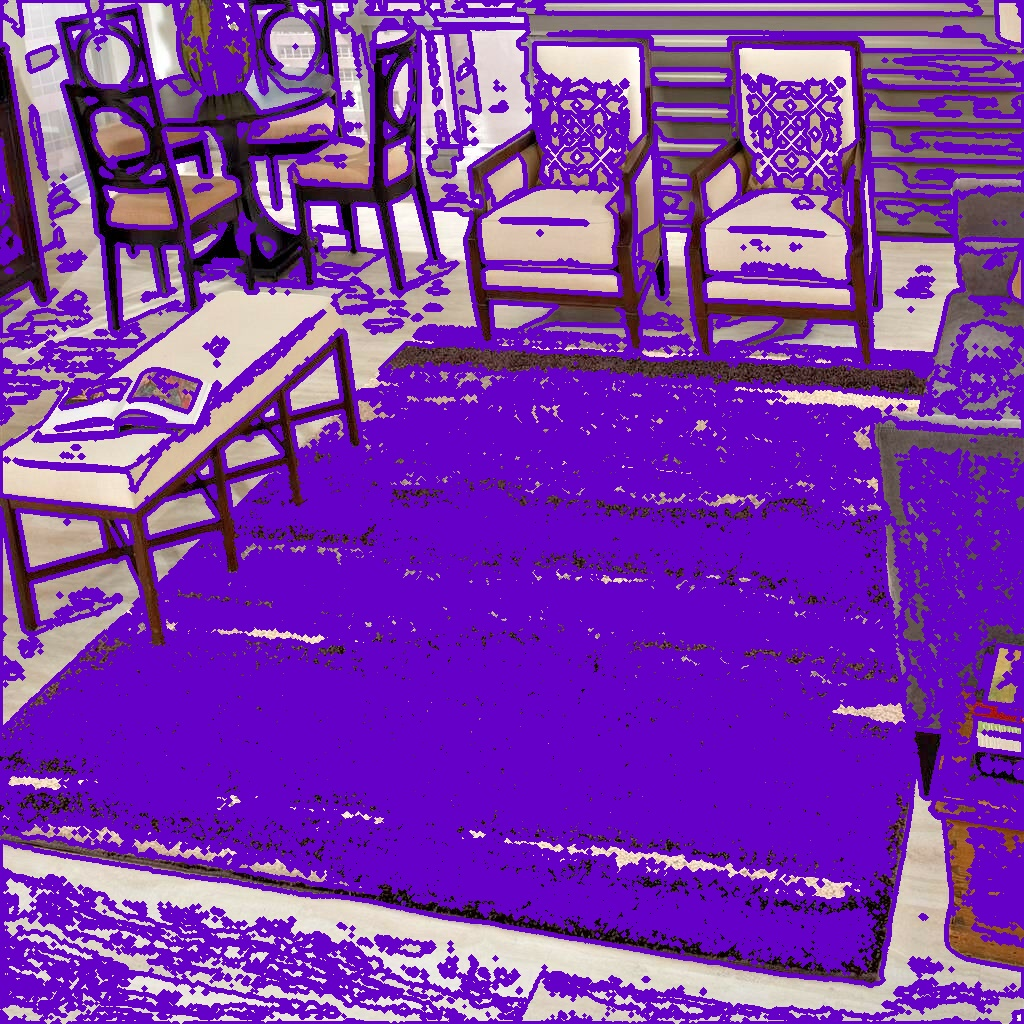
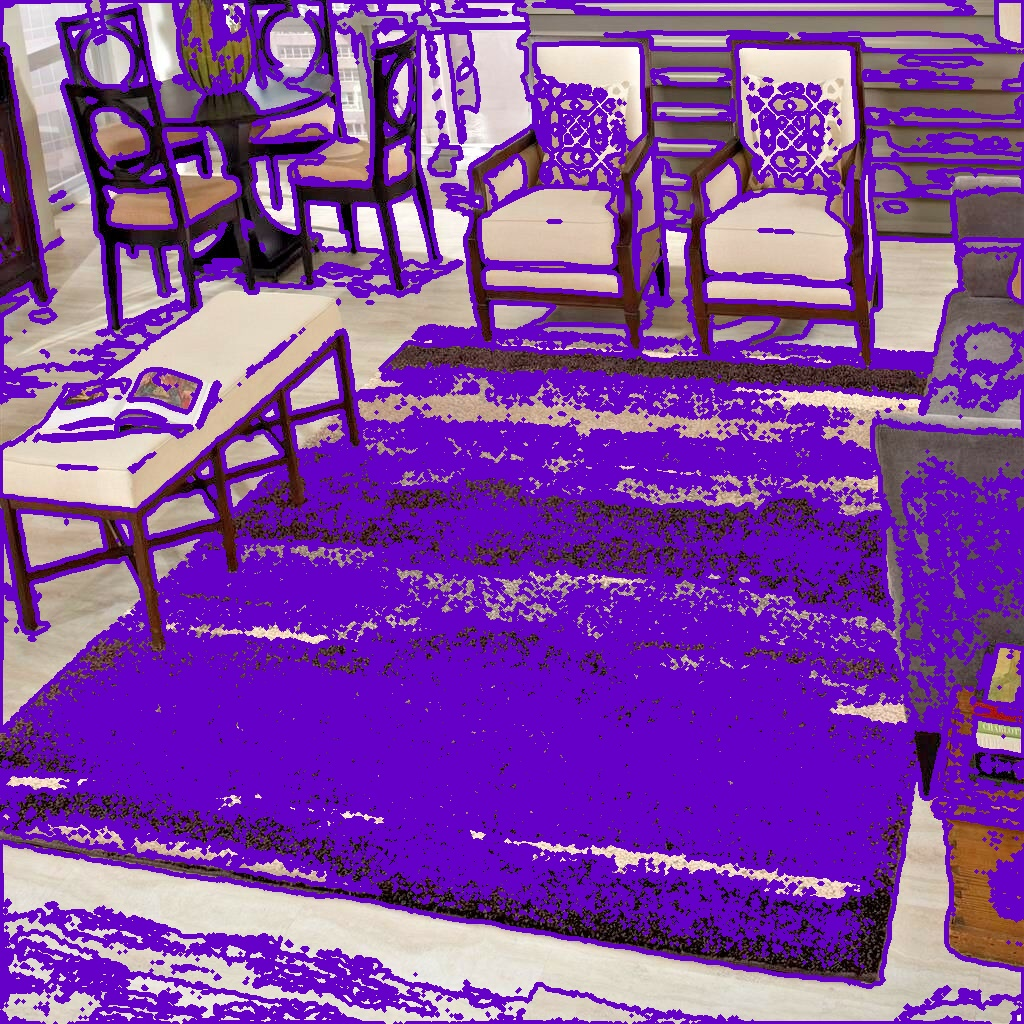
Reformant, remove .idea

diff --git a/detection.py b/detection.py
@@ -9,154 +9,154 @@ dest_path = "./dest"
 
 
 def make_dir(path):
-	if not os.path.isdir(path):
-		os.mkdir(path)
+  if not os.path.isdir(path):
+    os.mkdir(path)
 
 
 # Detect objects in images
 class ObjectDetection:
-	def __init__(self, src, dest, threshold):
-		self._src = src
-		self._dest = dest
-		self._threshold = threshold
-		make_dir(dest)
+  def __init__(self, src, dest, threshold):
+    self._src = src
+    self._dest = dest
+    self._threshold = threshold
+    make_dir(dest)
 
-	def _do_thresholding(self, file, path):
-		bw = cv.imread(file, 0)
-		ret, thresh = cv.threshold(bw, self._threshold, 255, cv.THRESH_BINARY)
-		cv.imwrite(
-			os.path.join(path, f"02-threshold-{self._threshold}.jpg"),
-			thresh
-		)
-		ret, thresh = cv.threshold(bw, self._threshold, 255, cv.THRESH_BINARY_INV)
-		cv.imwrite(
-			os.path.join(path, f"02-threshold-inverted-{self._threshold}.jpg"),
-			thresh
-		)
-		img = cv.imread(file, 1)
-		gray = cv.cvtColor(img, cv.COLOR_RGB2GRAY)
-		thresh = cv.adaptiveThreshold(gray, 255, cv.ADAPTIVE_THRESH_GAUSSIAN_C, cv.THRESH_BINARY, 115, 1)
-		cv.imwrite(
-			os.path.join(path, f"02-threshold-adaptive-{self._threshold}.jpg"),
-			thresh
-		)
+  def _do_thresholding(self, file, path):
+    bw = cv.imread(file, 0)
+    ret, thresh = cv.threshold(bw, self._threshold, 255, cv.THRESH_BINARY)
+    cv.imwrite(
+      os.path.join(path, f"02-threshold-{self._threshold}.jpg"),
+      thresh
+    )
+    ret, thresh = cv.threshold(bw, self._threshold, 255, cv.THRESH_BINARY_INV)
+    cv.imwrite(
+      os.path.join(path, f"02-threshold-inverted-{self._threshold}.jpg"),
+      thresh
+    )
+    img = cv.imread(file, 1)
+    gray = cv.cvtColor(img, cv.COLOR_RGB2GRAY)
+    thresh = cv.adaptiveThreshold(gray, 255, cv.ADAPTIVE_THRESH_GAUSSIAN_C, cv.THRESH_BINARY, 115, 1)
+    cv.imwrite(
+      os.path.join(path, f"02-threshold-adaptive-{self._threshold}.jpg"),
+      thresh
+    )
 
-	def _do_skintoning(self, file, path):
-		bw = cv.imread(file, 1)
-		hsv = cv.cvtColor(bw, cv.COLOR_BGR2HSV)
-		h = hsv[:, :, 0]
-		s = hsv[:, :, 1]
-		v = hsv[:, :, 2]
-		hsv_split = np.concatenate((h, s, v), axis=1)
-		cv.imwrite(
-			os.path.join(path, f"03-hsv.jpg"),
-			hsv_split
-		)
-		ret, min_sat = cv.threshold(s, 40, 255, cv.THRESH_BINARY)
-		cv.imwrite(
-			os.path.join(path, f"03-min-sat.jpg"),
-			min_sat
-		)
-		ret, max_hue = cv.threshold(s, 15, 255, cv.THRESH_BINARY_INV)
-		cv.imwrite(
-			os.path.join(path, f"03-max-hue.jpg"),
-			max_hue
-		)
+  def _do_skintoning(self, file, path):
+    bw = cv.imread(file, 1)
+    hsv = cv.cvtColor(bw, cv.COLOR_BGR2HSV)
+    h = hsv[:, :, 0]
+    s = hsv[:, :, 1]
+    v = hsv[:, :, 2]
+    hsv_split = np.concatenate((h, s, v), axis=1)
+    cv.imwrite(
+      os.path.join(path, f"03-hsv.jpg"),
+      hsv_split
+    )
+    ret, min_sat = cv.threshold(s, 40, 255, cv.THRESH_BINARY)
+    cv.imwrite(
+      os.path.join(path, f"03-min-sat.jpg"),
+      min_sat
+    )
+    ret, max_hue = cv.threshold(s, 15, 255, cv.THRESH_BINARY_INV)
+    cv.imwrite(
+      os.path.join(path, f"03-max-hue.jpg"),
+      max_hue
+    )
 
-	def _do_countour(self, file, path):
-		img = cv.imread(file, 1)
-		gray = cv.cvtColor(img, cv.COLOR_RGB2GRAY)
-		thresh = cv.adaptiveThreshold(gray, 255, cv.ADAPTIVE_THRESH_GAUSSIAN_C, cv.THRESH_BINARY, 115, 1)
-		contours, hierarchy = cv.findContours(thresh, cv.RETR_TREE, cv.CHAIN_APPROX_SIMPLE)
+  def _do_countour(self, file, path):
+    img = cv.imread(file, 1)
+    gray = cv.cvtColor(img, cv.COLOR_RGB2GRAY)
+    thresh = cv.adaptiveThreshold(gray, 255, cv.ADAPTIVE_THRESH_MEAN_C, cv.THRESH_BINARY, 115, 1)
+    contours, hierarchy = cv.findContours(thresh, cv.RETR_LIST, cv.CHAIN_APPROX_TC89_KCOS)
 
-		img2 = img.copy()
-		index = -1
-		thickness = 3
-		color = (200, 0, 100)
+    img2 = img.copy()
+    index = -1
+    thickness = 3
+    color = (200, 0, 100)
 
-		cv.drawContours(img2, contours, index, color, thickness)
-		cv.imwrite(
-			os.path.join(path, f"04-contours.jpg"),
-			img2
-		)
+    cv.drawContours(img2, contours, index, color, thickness)
+    cv.imwrite(
+      os.path.join(path, f"04-contours.jpg"),
+      img2
+    )
 
-	def _do_canny_edge(self, file, path):
-		img = cv.imread(file, 1)
-		hsv = cv.cvtColor(img, cv.COLOR_BGR2HSV)
-		res, thresh = cv.threshold(hsv[:, :, 0], 25, 255, cv.THRESH_BINARY_INV)
-		cv.imwrite(
-			os.path.join(path, f"05-canny-thresh.jpg"),
-			thresh
-		)
-		edges = cv.Canny(img, 100, 70)
-		cv.imwrite(
-			os.path.join(path, f"05-canny.jpg"),
-			edges
-		)
+  def _do_canny_edge(self, file, path):
+    img = cv.imread(file, 1)
+    hsv = cv.cvtColor(img, cv.COLOR_BGR2HSV)
+    res, thresh = cv.threshold(hsv[:, :, 0], 25, 255, cv.THRESH_BINARY_INV)
+    cv.imwrite(
+      os.path.join(path, f"05-canny-thresh.jpg"),
+      thresh
+    )
+    edges = cv.Canny(img, 100, 70)
+    cv.imwrite(
+      os.path.join(path, f"05-canny.jpg"),
+      edges
+    )
 
-	def _assign_attributes(self, file, path):
-		img = cv.imread(file, 1)
-		gray = cv.cvtColor(img, cv.COLOR_BGR2GRAY)
-		blur = cv.GaussianBlur(gray, (3, 3), 0)
-		thresh = cv.adaptiveThreshold(blur, 255, cv.ADAPTIVE_THRESH_GAUSSIAN_C, cv.THRESH_BINARY_INV, 205, 1)
-		contours, _ = cv.findContours(thresh, cv.RETR_TREE, cv.CHAIN_APPROX_SIMPLE)
-		filtered = []
-		for c in contours:
-			if cv.contourArea(c) < 1000:
-				continue
-			filtered.append(c)
+  def _assign_attributes(self, file, path):
+    img = cv.imread(file, 1)
+    gray = cv.cvtColor(img, cv.COLOR_BGR2GRAY)
+    blur = cv.GaussianBlur(gray, (3, 3), 0)
+    thresh = cv.adaptiveThreshold(blur, 255, cv.ADAPTIVE_THRESH_GAUSSIAN_C, cv.THRESH_BINARY_INV, 205, 1)
+    contours, _ = cv.findContours(thresh, cv.RETR_TREE, cv.CHAIN_APPROX_SIMPLE)
+    filtered = []
+    for c in contours:
+      if cv.contourArea(c) < 1000:
+        continue
+      filtered.append(c)
 
-		print(len(filtered))
+    print(len(filtered))
 
-		objects = np.zeros([img.shape[0], img.shape[1], 3], 'uint8')
-		for c in filtered:
-			col = (random.randint(0, 255), random.randint(0, 255), random.randint(0, 255))
-			cv.drawContours(objects, [c], -1, col, -1)
-			area = cv.contourArea(c)
-			p = cv.arcLength(c, True)
-			print(area, p)
+    objects = np.zeros([img.shape[0], img.shape[1], 3], 'uint8')
+    for c in filtered:
+      col = (random.randint(0, 255), random.randint(0, 255), random.randint(0, 255))
+      cv.drawContours(objects, [c], -1, col, -1)
+      area = cv.contourArea(c)
+      p = cv.arcLength(c, True)
+      print(area, p)
 
-		cv.imwrite(
-			os.path.join(path, f"06-attributes.jpg"),
-			objects
-		)
+    cv.imwrite(
+      os.path.join(path, f"06-attributes.jpg"),
+      objects
+    )
 
-	def _do_templates(self, file, path):
-		img = cv.imread(file, 1)
-		hsv = cv.cvtColor(img, cv.COLOR_BGR2HSV)
-		res, thresh = cv.threshold(hsv[:, :, 0], 25, 255, cv.THRESH_BINARY_INV)
-		cv.imwrite(
-			os.path.join(path, f"05-canny-thresh.jpg"),
-			thresh
-		)
-		edges = cv.Canny(img, 100, 70)
-		cv.imwrite(
-			os.path.join(path, f"05-canny.jpg"),
-			edges
-		)
+  def _do_templates(self, file, path):
+    img = cv.imread(file, 1)
+    hsv = cv.cvtColor(img, cv.COLOR_BGR2HSV)
+    res, thresh = cv.threshold(hsv[:, :, 0], 25, 255, cv.THRESH_BINARY_INV)
+    cv.imwrite(
+      os.path.join(path, f"05-canny-thresh.jpg"),
+      thresh
+    )
+    edges = cv.Canny(img, 100, 70)
+    cv.imwrite(
+      os.path.join(path, f"05-canny.jpg"),
+      edges
+    )
 
-	def produce(self, file):
-		dest = os.path.join(self._dest, file)
-		make_dir(dest)
-		src_original_file = os.path.join(self._src, file)
-		dest_original_file = os.path.join(dest, "01-original.jpg")
-		if not os.path.isfile(dest_original_file):
-			shutil.copyfile(
-				src_original_file,
-				dest_original_file
-			)
-		self._do_thresholding(dest_original_file, dest)
-		self._do_skintoning(dest_original_file, dest)
-		self._do_countour(dest_original_file, dest)
-		self._do_canny_edge(dest_original_file, dest)
-		self._assign_attributes(dest_original_file, dest)
-		self._do_templates(dest_original_file, dest)
+  def produce(self, file):
+    dest = os.path.join(self._dest, file)
+    make_dir(dest)
+    src_original_file = os.path.join(self._src, file)
+    dest_original_file = os.path.join(dest, "01-original.jpg")
+    if not os.path.isfile(dest_original_file):
+      shutil.copyfile(
+        src_original_file,
+        dest_original_file
+      )
+    self._do_thresholding(dest_original_file, dest)
+    self._do_skintoning(dest_original_file, dest)
+    self._do_countour(dest_original_file, dest)
+    self._do_canny_edge(dest_original_file, dest)
+    self._assign_attributes(dest_original_file, dest)
+    self._do_templates(dest_original_file, dest)
 
 
 detector = ObjectDetection(
-	src_path,
-	dest_path,
-	85
+  src_path,
+  dest_path,
+  85
 )
 
 detector.produce("10.jpg")
@@ -165,6 +165,7 @@ detector.produce("15.jpg")
 detector.produce("20.jpg")
 detector.produce("26.jpg")
 detector.produce("4.jpg")
+detector.produce("41.jpg")
 # Create destination directory
 # data = enumerate(os.listdir(src_path))
 # for idx, val in data:

diff --git a/rename.py b/rename.py
@@ -8,4 +8,3 @@ import time
 # 	new_file = os.path.join(f_path, str(idx) + "-" + str(time.time_ns()) + ".jpg")
 # 	print(idx, val)
 # 	os.rename(old_file, new_file)
-
